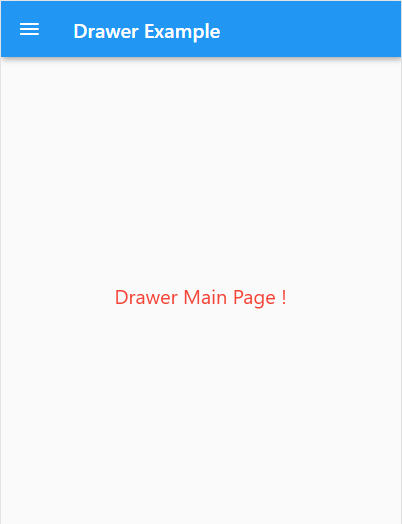
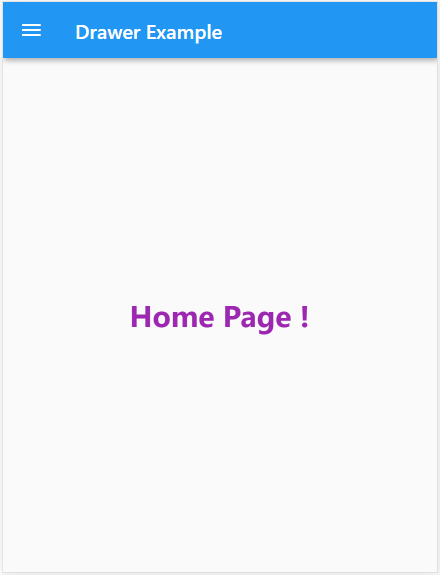
added File

Changed region(s): [[0.0, 0.0, 1.0, 0.1221], [0.2687, 0.5191, 0.7164, 0.6107]]

diff --git a/README.md b/README.md
@@ -4,6 +4,16 @@ A new Flutter project.
 
 ## Getting Started
 
+
+## Output
+
+#### Drawer Home Page
+<img  alt="HTML5" width="300px" src="./Output/Capture.PNG" />
+
+
+
+
+
 This project is a starting point for a Flutter application.
 
 A few resources to get you started if this is your first Flutter project:
